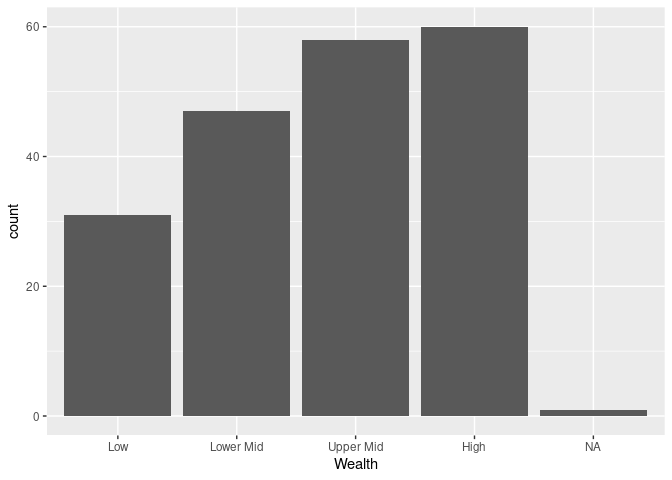
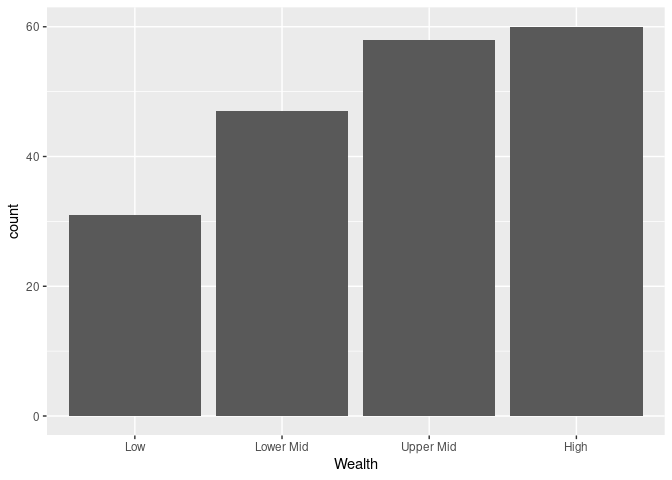
Re-compile ggplot2 intro.

diff --git a/content/lehre/statistik-ii/grafiken-ggplot2.md b/content/lehre/statistik-ii/grafiken-ggplot2.md
@@ -9,7 +9,7 @@ subtitle: ''
 summary: 'In diesem Post lernt ihr, Daten in R mit Hilfe des Pakets "ggplot2" zu visualisieren. Das Tutorial startet mit den Grundprinzipien des Pakets, wie Daten in Schichten dargestellt werden, die Geometrie und Ästhetik der Grafiken sowie die Verwendung von Themes und Farbpaletten zur Anpassung der Abbildungen. Außerdem werden Methoden zur Beschriftung und Anpassung von Grafiken für eine übersichtlichere Darstellung von Daten erläutert.'
 authors: [schultze]
 weight: 2
-lastmod: '2024-04-09'
+lastmod: '2024-04-22'
 featured: no
 banner:
   image: "/header/colorful_bubbles.jpg"
@@ -87,20 +87,20 @@ head(edu_exp)
 ```
 
 ```
-##   geo     Country     Wealth Region Year Population Expectancy Income Primary
-## 1 afg Afghanistan low_income   asia 1997   19357126      53.74    865      NA
-## 2 afg Afghanistan low_income   asia 1998   19737770      52.80    800      NA
-## 3 afg Afghanistan low_income   asia 1999   20170847      54.43    735      NA
-## 4 afg Afghanistan low_income   asia 2000   20779957      54.63    687      NA
-## 5 afg Afghanistan low_income   asia 2001   21606992      54.76    646      NA
-## 6 afg Afghanistan low_income   asia 2002   22600774      55.65   1016      NA
-##   Secondary Tertiary    Index
-## 1        NA       NA 13.33333
-## 2        NA       NA 13.33333
-## 3        NA       NA 14.00000
-## 4        NA       NA 14.66667
-## 5        NA       NA 14.66667
-## 6        NA       NA 15.33333
+##   geo     Country     Wealth Region Year Population Expectancy   Income Primary Secondary Tertiary
+## 1 afg Afghanistan low_income   asia 1997   17788819       50.7       NA      NA        NA       NA
+## 2 afg Afghanistan low_income   asia 1998   18493132       50.0       NA      NA        NA       NA
+## 3 afg Afghanistan low_income   asia 1999   19262847       50.8       NA      NA        NA       NA
+## 4 afg Afghanistan low_income   asia 2000   19542982       51.0       NA      NA        NA       NA
+## 5 afg Afghanistan low_income   asia 2001   19688632       51.1       NA      NA        NA       NA
+## 6 afg Afghanistan low_income   asia 2002   21000256       51.6 344.2242      NA        NA       NA
+##   Index
+## 1  0.18
+## 2  0.19
+## 3  0.20
+## 4  0.20
+## 5  0.21
+## 6  0.22
 ```
 
 
@@ -160,8 +160,7 @@ unique(edu_2014$Wealth)
 ```
 
 ```
-## [1] "low_income"          "lower_middle_income" "upper_middle_income"
-## [4] "high_income"         ""
+## [1] "low_income"          "lower_middle_income" "upper_middle_income" "high_income"
 ```
 Die sind zum einen etwas unübersichtlich und zum anderen (besonders wichtig) nicht sonderlich schön. Deswegen sollten wir die Variable in einen Faktor umwandeln und etwas leserlichere Labels vergeben:
 
@@ -265,6 +264,7 @@ Die Balken der Abbildung zeigen uns jetzt erst einmal an, wie viele arme, mittle
 
 
 ```r
+# Tabelle der vier "Kontinent", die sich im Datensatz befinden, Amerikas zusammengefasst, kein Australien
 table(edu_2014$Region)
 ```
 
@@ -276,11 +276,27 @@ table(edu_2014$Region)
 Wie wir sehen, sind die beiden Amerikas zusammengefasst, aber im Wesentlichen haben wir eine relativ gleichmäßige Aufteilung der Länder in diese vier großen Regionen. Die Variable ist als `character` im Datensatz abgelegt, was `ggplot` leider überhaupt nicht mag. Deswegen sollten wir sie zunächst in einen Faktor umwandeln:
 
 
+```r
+edu_2014$Region <- factor(edu_2014$Region, levels = c('africa', 'americas', 'asia', 'europe'),
+  labels = c('Africa', 'Americas', 'Asia', 'Europe'))
+```
 
 Jetzt können wir die Balken nach Regionen gruppieren:
 
+
+```r
+ggplot(edu_2014, aes(x = Wealth, group = Region)) +
+  geom_bar(aes(fill = Region), color = 'grey40')
+```
+
 ![](/lehre/statistik-ii/grafiken-ggplot2_files/figure-html/stacked-barplot-1.png)<!-- -->
 Per Voreinstellung wird in `ggplot` ein sogenannter "stacked" Barplot erstellt, bei dem die Balken übereinander gestapelt werden. Üblicher ist aber häufig die Darstellung nebeneinander. Dafür können wir z.B. das `position`-Argument anpassen:
+
+
+```r
+ggplot(edu_2014, aes(x = Wealth, group = Region)) +
+  geom_bar(aes(fill = Region), color = 'grey40', position = 'dodge')
+```
 
 ![](/lehre/statistik-ii/grafiken-ggplot2_files/figure-html/grouped-barplot-1.png)<!-- -->
 
